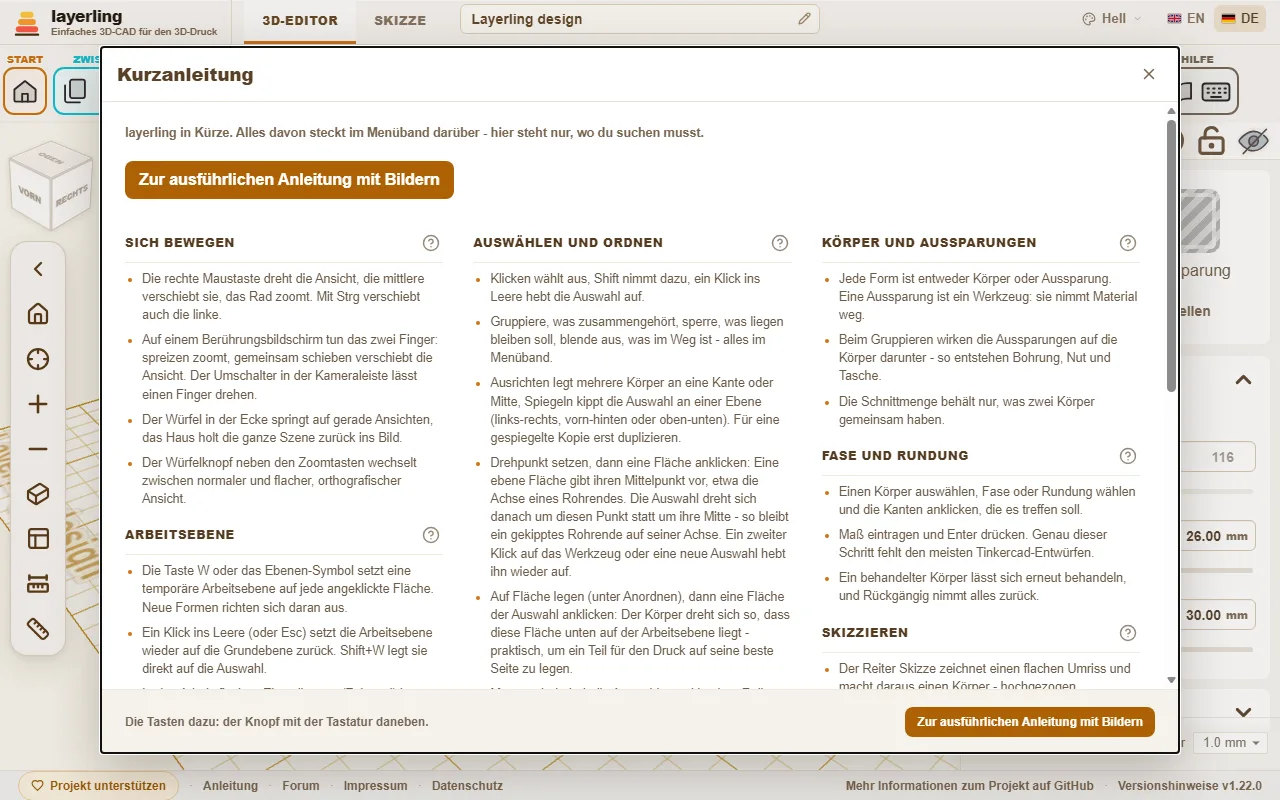
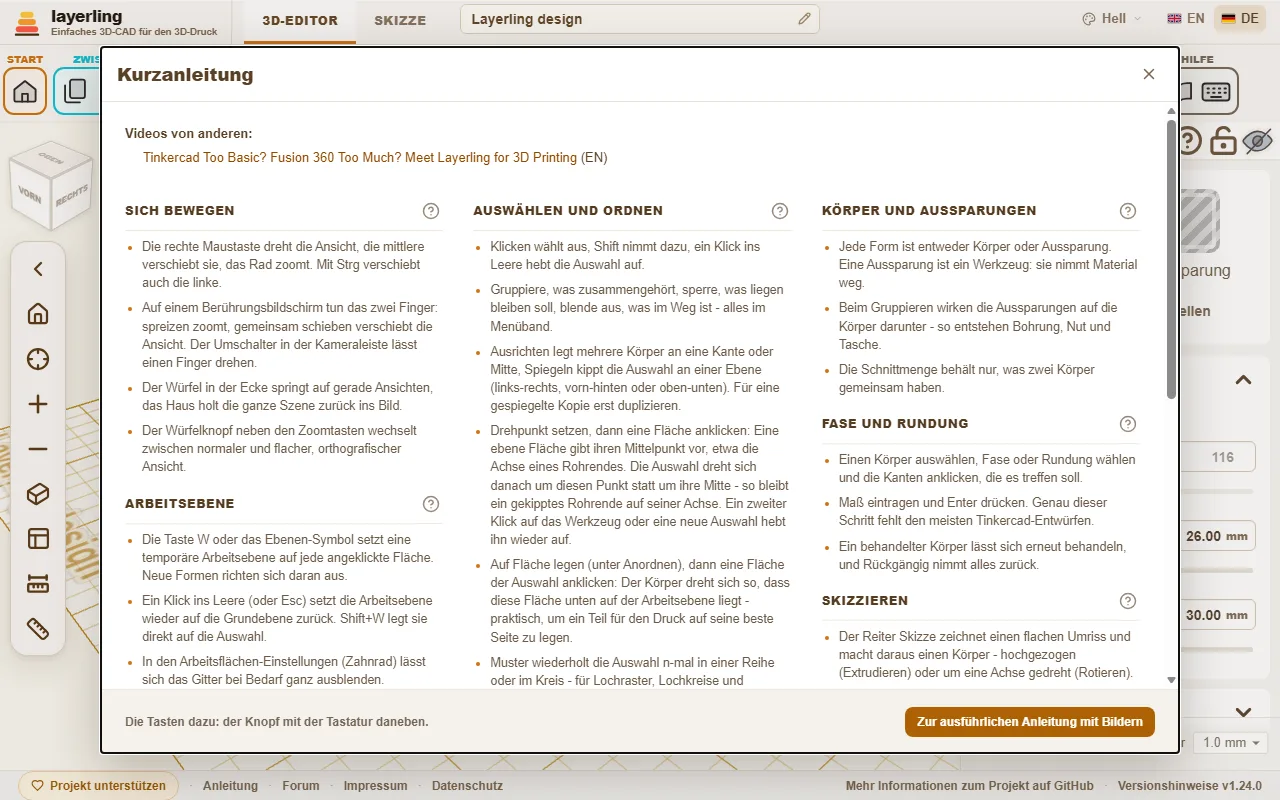
Anleitung: Kapitel Videos, Kurzanleitung ohne Einleitung und oberen Knopf

Changed region(s): [[0.375, 0.25, 0.9062, 0.875], [0.0938, 0.1562, 0.5625, 0.875], [0.9062, 0.1562, 1.0, 0.2188]]

diff --git a/apps/web/src/lib/layerlingVideos.ts b/apps/web/src/lib/layerlingVideos.ts
@@ -2,6 +2,7 @@
  * Videos by other people about layerling. Plain links, no embeds: an embedded
  * player would contact YouTube as soon as the page opens, and layerling keeps
  * visitors' data to itself. Newest first; `lang` is the spoken language.
+ * The guide has a chapter with the same list: 16-videos.md in docs/guide (both languages).
  */
 export const LAYERLING_VIDEOS = [
   {

diff --git a/docs/CHANGELOG.md b/docs/CHANGELOG.md
@@ -6,6 +6,7 @@ code still carries it - so a lower number further down is older, not newer.
 
 ## Unreleased
 
+- **Videos chapter in the user guide:** A new last chapter lists videos by others, in both languages. The quick guide in the editor lost its intro sentence and the button to the full guide (the link at the bottom stays) and shows the videos as a plain list.
 - **Update notice on your own computer:** When layerling runs on `localhost`, the "Update available" link in the footer leads to the update steps in the README instead of the release page, with a tooltip that the desktop shortcut updates at the next start. The quick guide in the editor and the README list the videos as well.
 - **Videos on the start page:** The welcome guide has a new list "Videos about layerling" with plain links (no embedded player, so nothing is loaded from YouTube until you click). First entry: the 3D Jesus review. The printer count in the guide now says around 190.
 - **Windows desktop shortcut starts properly:** The browser now opens only once the server answers (before, it often showed an error page until you reloaded), and the shortcut first updates layerling with `git pull` plus `npm install`. New: `scripts/start-layerling.cmd`; the README now shows how to choose the install folder with `-InstallPath` (issue #55).

diff --git a/docs/guide/de/15-offline-und-installieren.md b/docs/guide/de/15-offline-und-installieren.md
@@ -38,7 +38,7 @@ Die MCP-Brücke für KI-Assistenten gibt es nur beim Entwicklungsserver, siehe [
 
 - Im Editor liegt im Bereich {{ui:editor.group.help}} die {{ui:editor.guide}} mit den wichtigsten Handgriffen und die Übersicht der [Tastenkürzel](chapter:tastenkuerzel). Die Kurzanleitung verweist bei jedem Abschnitt mit einem Fragezeichen auf das passende Kapitel hier.
 
-![Die Kurzanleitung im Editor. Oben führt ein Knopf zur ausführlichen Anleitung, jeder Abschnitt hat ein Fragezeichen.](shot:quick-guide)
+![Die Kurzanleitung im Editor. Oben stehen Videos von anderen, jeder Abschnitt hat ein Fragezeichen.](shot:quick-guide)
 
 - Fragen, Wünsche und Fehlermeldungen sind im [Forum](https://forum.drucktipps3d.de/forum/board/127-layerling/) und auf [GitHub](https://github.com/henmedia/layerling/discussions) willkommen.
 - Was sich in welcher Version geändert hat, steht in den Versionshinweisen, die du unten auf der Startseite und im Editor findest.

diff --git a/docs/guide/en/15-offline-and-install.md b/docs/guide/en/15-offline-and-install.md
@@ -38,7 +38,7 @@ The MCP bridge for AI assistants exists only in the development server, see [Bui
 
 - In the editor, the {{ui:editor.group.help}} area holds the {{ui:editor.guide}} with the most important moves and the overview of [keyboard shortcuts](chapter:shortcuts). Each section of the quick guide has a question mark that leads to the matching chapter here.
 
-![The quick guide in the editor. A button at the top leads to the full guide, and every section has a question mark.](shot:quick-guide)
+![The quick guide in the editor. Videos by others are listed at the top, and every section has a question mark.](shot:quick-guide)
 
 - Questions, wishes and bug reports are welcome in the [forum](https://forum.drucktipps3d.de/forum/board/127-layerling/) and on [GitHub](https://github.com/henmedia/layerling/discussions).
 - What changed in which version is in the release notes, which you find at the bottom of the start page and of the editor.

diff --git a/docs/guide/de/16-videos.md b/docs/guide/de/16-videos.md
@@ -1,0 +1,12 @@
+---
+title: Videos über layerling
+summary: Videos, die andere über layerling gemacht haben.
+---
+
+## Von anderen gemacht
+
+Diese Videos stammen nicht von diesem Projekt. Die Links öffnen YouTube in einem neuen Tab; von dort wird erst etwas geladen, wenn du klickst.
+
+- [Tinkercad Too Basic? Fusion 360 Too Much? Meet Layerling for 3D Printing](https://youtu.be/kzV7fQ3rXhw) – 3D Jesus | 3D Printing & Design (Englisch). Ein erster Test von layerling ganz ohne Anleitung: Verrunden und Fasen, Aushöhlen, Gewinde, Skizzen, Drehkörper, Muster, Import und Druckerprofile.
+
+Kennst du ein weiteres Video oder hast selbst eines gemacht? Sag es im [Forum](https://forum.drucktipps3d.de/forum/board/127-layerling/) oder auf [GitHub](https://github.com/henmedia/layerling/discussions), dann kommt es hierher.

diff --git a/docs/guide/en/16-videos.md b/docs/guide/en/16-videos.md
@@ -1,0 +1,12 @@
+---
+title: Videos about layerling
+summary: Videos that other people have made about layerling.
+---
+
+## Made by others
+
+These videos are not from this project. The links open YouTube in a new tab; nothing is loaded from there until you click.
+
+- [Tinkercad Too Basic? Fusion 360 Too Much? Meet Layerling for 3D Printing](https://youtu.be/kzV7fQ3rXhw) – 3D Jesus | 3D Printing & Design (English). A first test of layerling without any manual: fillets and chamfers, hollowing, threads, sketches, revolved bodies, patterns, import and printer profiles.
+
+Do you know another video, or made one yourself? Tell us in the [discussions](https://github.com/henmedia/layerling/discussions) and it will be added here.
